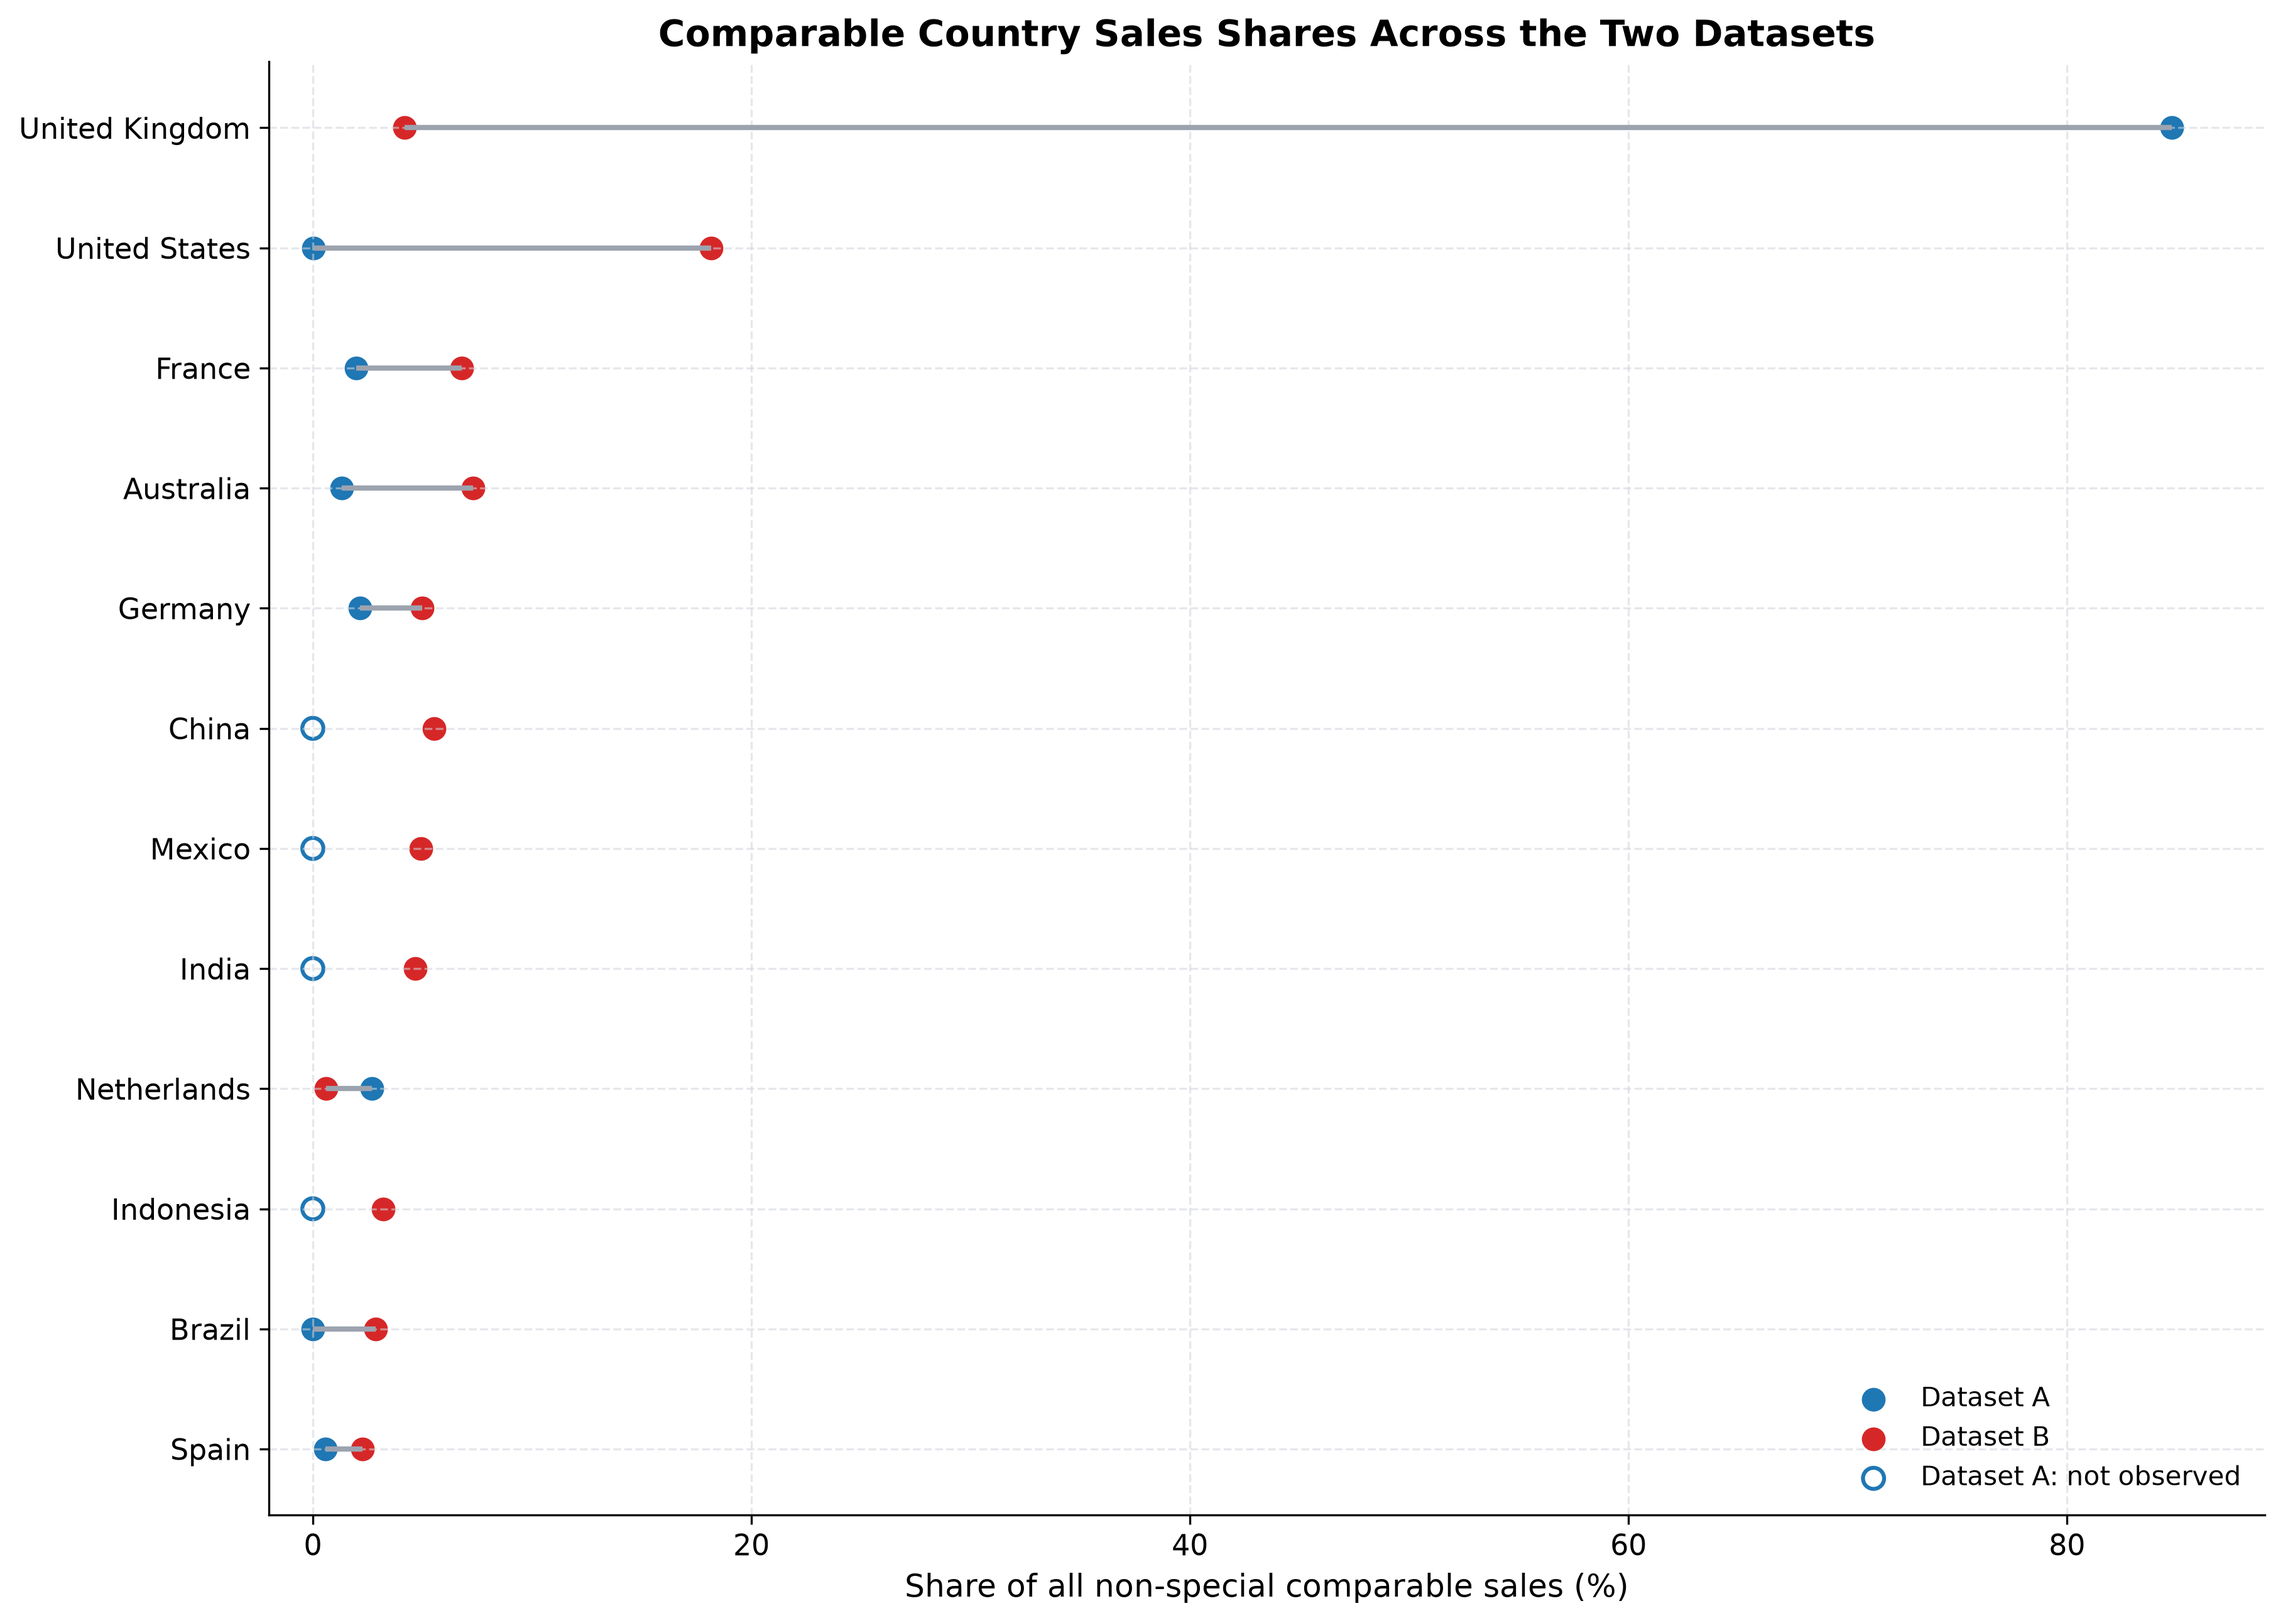
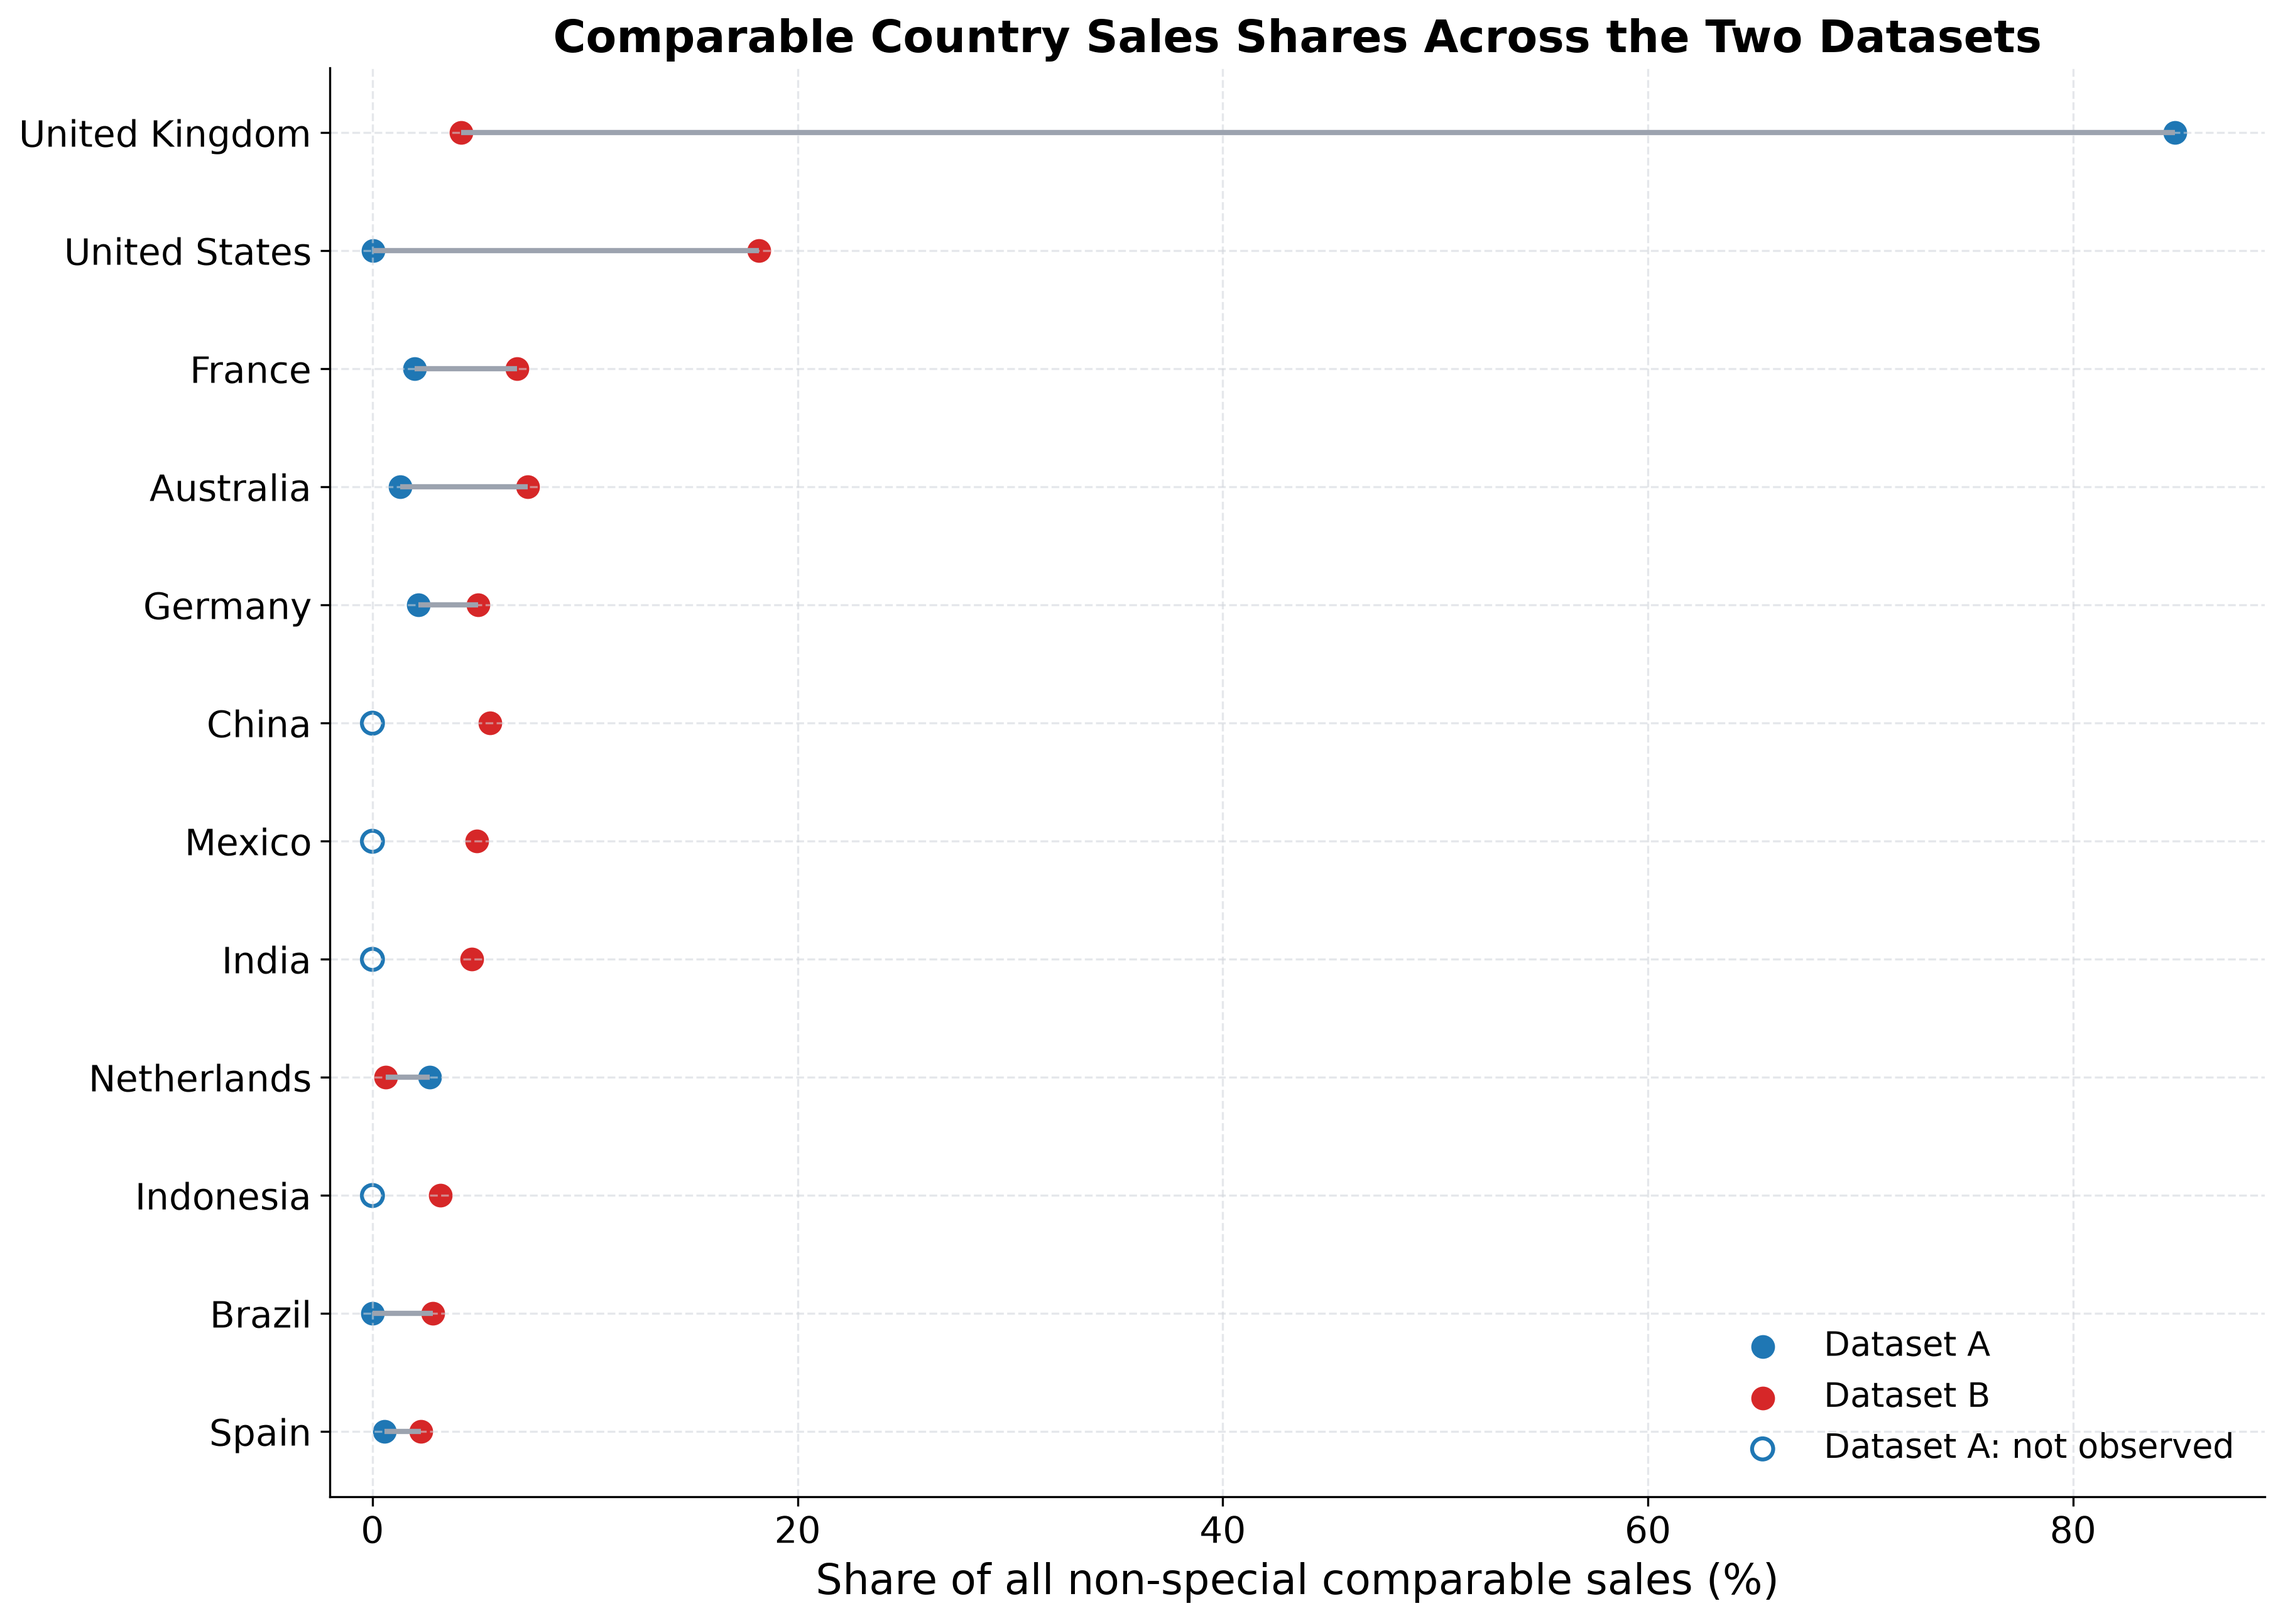
Enlarge threshold annotation and clarify cumulative curve wording

diff --git a/code/country_sales_analysis.py b/code/country_sales_analysis.py
@@ -81,9 +81,9 @@ def configure_plot_style() -> None:
             "figure.dpi": 150,
             "savefig.dpi": 300,
             "font.family": "DejaVu Sans",
-            "font.size": 10,
-            "axes.titlesize": 14,
-            "axes.labelsize": 12,
+            "font.size": 13,
+            "axes.titlesize": 17,
+            "axes.labelsize": 16,
             "axes.titleweight": "bold",
             "axes.spines.top": False,
             "axes.spines.right": False,
@@ -92,9 +92,9 @@ def configure_plot_style() -> None:
             "grid.alpha": 0.55,
             "grid.linestyle": "--",
             "legend.frameon": False,
-            "legend.fontsize": 10,
-            "xtick.labelsize": 11,
-            "ytick.labelsize": 11,
+            "legend.fontsize": 13,
+            "xtick.labelsize": 14,
+            "ytick.labelsize": 14,
         }
     )
 
@@ -552,7 +552,7 @@ def annotate_bars(ax: Axes, bars: Any, percentages: bool = False) -> None:
             bar.get_y() + bar.get_height() / 2,
             " " + label,
             va="center",
-            fontsize=9,
+            fontsize=12,
         )
 
 
@@ -575,7 +575,7 @@ def plot_top15(summaries: dict[str, pd.DataFrame]) -> None:
         ax.set_xlim(0, view["TotalSales"].max() * 1.22)
     fig.suptitle(
         "Top 15 Countries or Market Labels by Line Sales Before Return Adjustment",
-        fontsize=16,
+        fontsize=17,
         fontweight="bold",
     )
     fig.savefig(FIG_DIR / "fig1_top15_sales.png", bbox_inches="tight")
@@ -628,7 +628,7 @@ def plot_pareto(summaries: dict[str, pd.DataFrame]) -> None:
             (full_idx80, 80),
             xytext=(8, 8),
             textcoords="offset points",
-            fontsize=10,
+            fontsize=19,
             fontweight="bold",
         )
         curve_ax.set_xlabel("Original country/market rank")
@@ -645,7 +645,7 @@ def plot_pareto(summaries: dict[str, pd.DataFrame]) -> None:
         curve_ax.set_xticks(rank_ticks)
     fig.suptitle(
         "Cumulative Sales Concentration by Country or Market Label",
-        fontsize=16,
+        fontsize=17,
         fontweight="bold",
     )
     fig.savefig(FIG_DIR / "fig2_pareto_sales.png", bbox_inches="tight")
